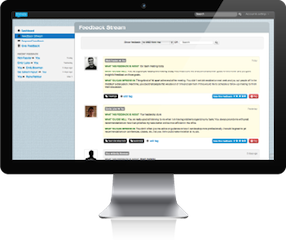
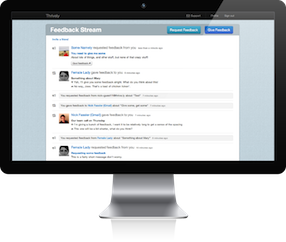
Mailchimp invite request, Google Analytics
* Add Mailchimp to marketing invite request
* Add /thanks page for post-invite
* Add Google Analytics tracking code
* Switch marketing desktop image

Changed region(s): [[0.0, 0.0289, 0.979, 0.6942], [0.6154, 0.8388, 0.6434, 0.8678]]

diff --git a/app/assets/javascripts/googleanalytics.js b/app/assets/javascripts/googleanalytics.js
@@ -1,0 +1,10 @@
+var _gaq = _gaq || [];
+_gaq.push(['_setAccount', 'UA-27654182-1']);
+_gaq.push(['_setDomainName', 'thrive.ly']);
+_gaq.push(['_trackPageview']);
+
+(function() {
+  var ga = document.createElement('script'); ga.type = 'text/javascript'; ga.async = true;
+  ga.src = ('https:' == document.location.protocol ? 'https://ssl' : 'http://www') + '.google-analytics.com/ga.js';
+  var s = document.getElementsByTagName('script')[0]; s.parentNode.insertBefore(ga, s);
+})();

diff --git a/app/assets/stylesheets/marketing.css.scss b/app/assets/stylesheets/marketing.css.scss
@@ -10,6 +10,10 @@
     float: right;
     margin-left: 40px;
   }
+
+  .call-to-action {
+    margin-bottom: 10px;
+  }
 }
 
 .features {

diff --git a/config/routes.rb b/config/routes.rb
@@ -22,6 +22,7 @@ Thrively::Application.routes.draw do
   match '/privacy', to: 'high_voltage/pages#show', id: 'privacy', as: :privacy
   match '/request', to: 'requests#new', as: :new_request
   match '/sign_up', to: 'high_voltage/pages#show', id: 'marketing', as: :sign_up
+  match '/thanks', to: 'high_voltage/pages#show', id: 'thanks', as: :thanks
 
   if Rails.env.development?
     mount Mailer::Preview => 'mail_view'
